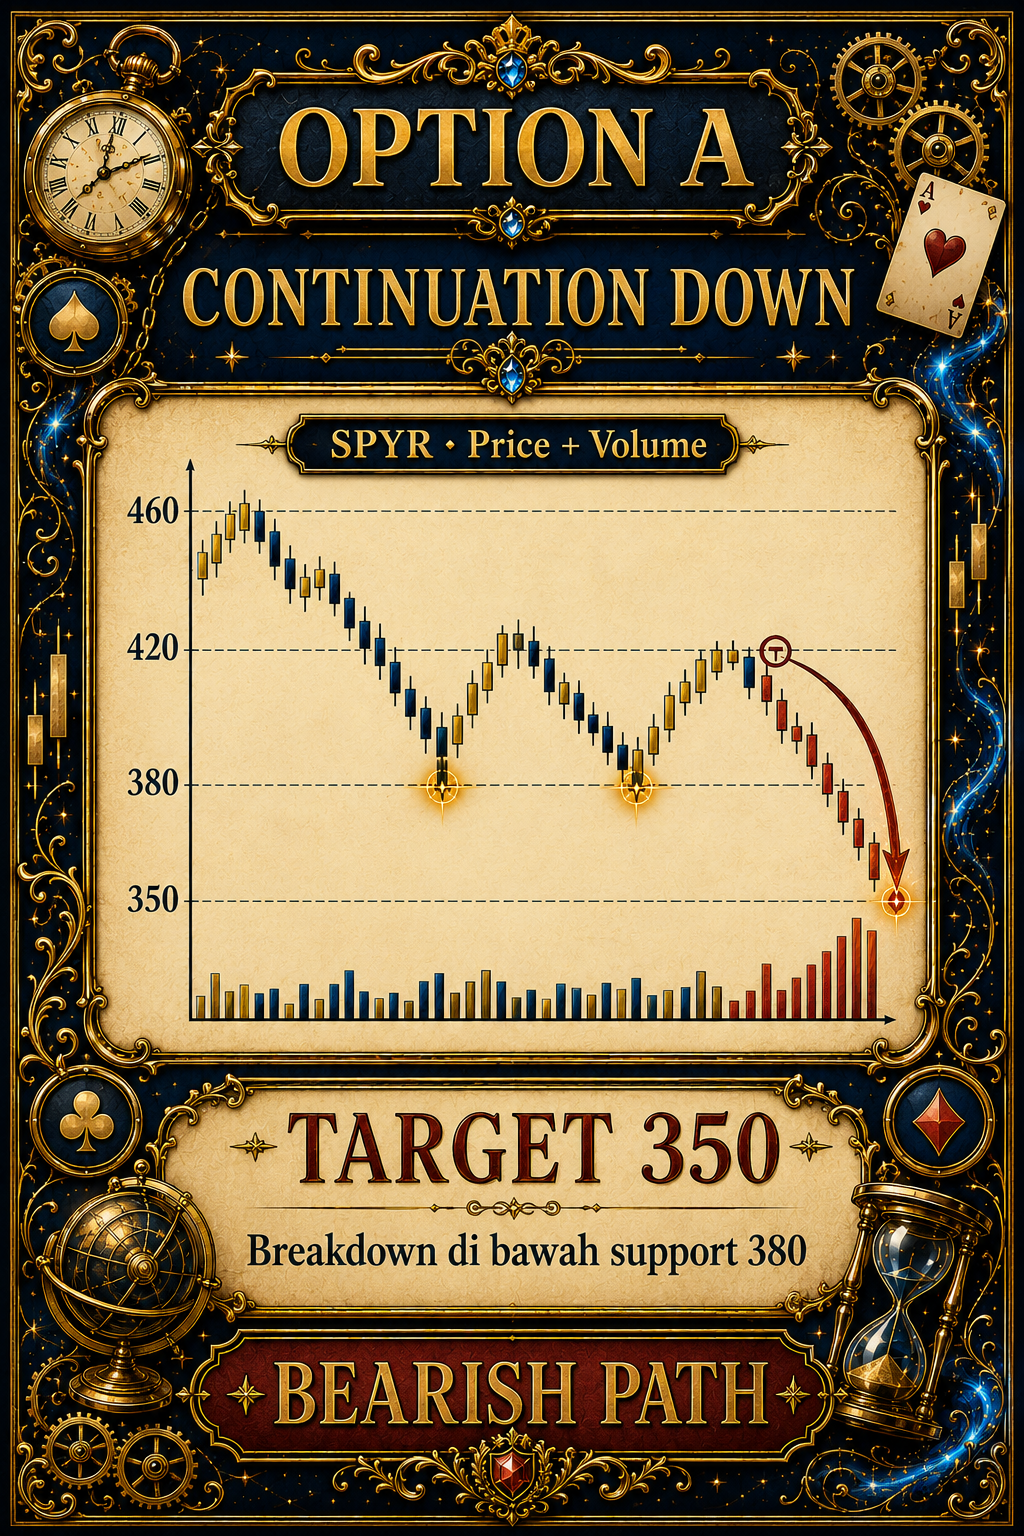
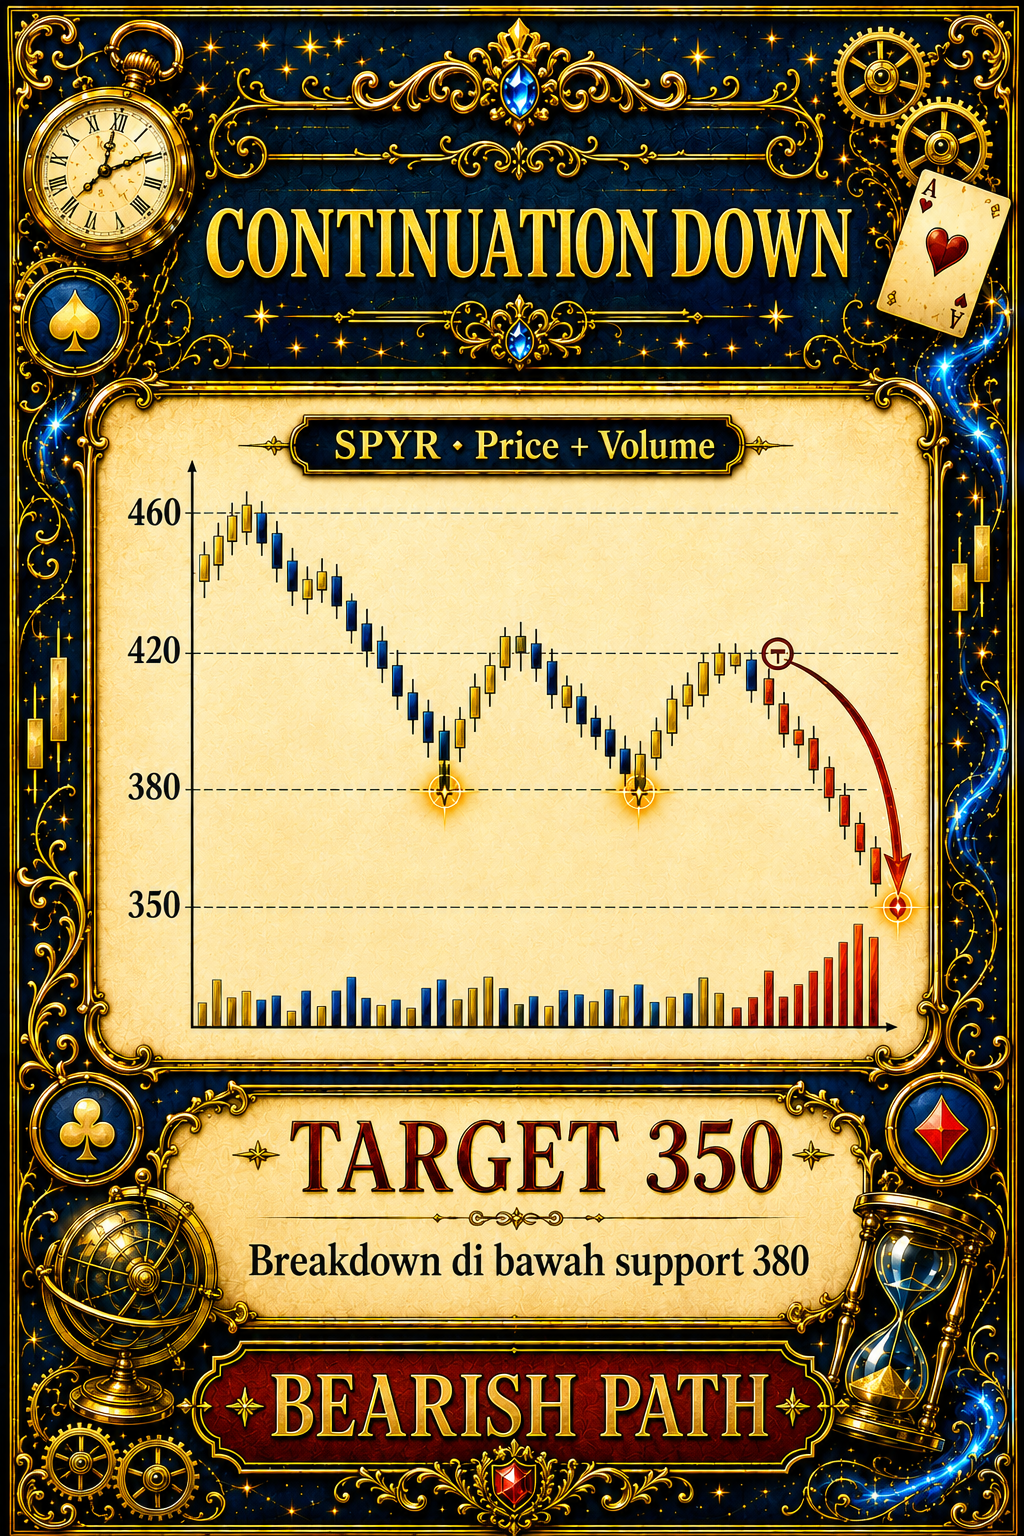
Revisi Prediction Card

diff --git a/js/config.js b/js/config.js
@@ -211,7 +211,7 @@ const WIZCO_BRIEFING = {
     { pose: "explain",        text: "Hari ini kalian tidak sekadar ikut bermain. Kalianlah yang akan membaca arah pasar dan menentukan ke mana harga bergerak." },
     { pose: "explain",        text: "Aturannya sederhana, dan dipakai di sembilan Round: baca skenario di layar, tulis jawaban di Prophecy Card, lalu pasang Poin Keyakinan kalian." },
     { pose: "present",        text: "Poin Keyakinan adalah ukuran seberapa percaya diri kalian dengan jawaban yang dipilih. Kalau jawaban benar, kalian mendapat tambahan Poin Keyakinan. Kalau salah, Poin Keyakinan yang dipasang akan hangus." },
-    { pose: "explain",        text: "Penting ya, Stockrangers: di setiap Round, memasang Poin Keyakinan itu WAJIB. Hanya di Round bonus terakhir nanti kalian boleh memilih untuk tidak ikut." },
+    { pose: "explain",        text: "Penting ya, Stockrangers: di setiap Round, memasang Poin Keyakinan itu WAJIB." },
     { pose: "thinking",       text: "Jumlah yang boleh dipasang ada batas minimal dan maksimal, selalu kelipatan 5, dan rentangnya akan muncul di layar setiap Round. Makin besar yang kalian pasang, makin besar tambahannya kalau benar, tapi makin besar pula yang hilang kalau salah." },
     { pose: "present",        text: "Dan satu hal lagi: setiap Round, multiplier-nya naik bertahap, dari kali 1.0 sampai kali 2.5. Jadi pertimbangkan baik-baik ya. Setiap keputusan yang kalian ambil sangat menentukan." },
     { pose: "cheer",          text: "Baik, cukup pengantarnya. Stockrangers, kita mulai!" }
@@ -268,7 +268,7 @@ const WIZCO_BRIEFING = {
     { pose: "present",        text: "Round 7: The Earnings Verdict. Musim laporan keuangan telah tiba." },
     { pose: "scroll",         text: "Enam emiten Lyndell merilis kinerja kuartalan. Tapi ingat, pertumbuhan yang tinggi belum tentu berarti perusahaannya sehat." },
     { pose: "magnifier",      text: "Tugas kalian: pilih TEPAT TIGA emiten dengan fundamental paling KUAT, bukan yang pertumbuhannya paling besar, melainkan yang paling sehat." },
-    { pose: "explain",        text: "Baca margin, utang, dan profitabilitasnya. Paket trio, pasang 30 sampai 150 Poin Keyakinan, kelipatan 5, wajib diisi. Multiplier kali 2.0, taruhannya makin tinggi." },
+    { pose: "explain",        text: "Baca margin, utang, dan profitabilitasnya. Paket trio, pasang 30 sampai 150 Poin Keyakinan, kelipatan 5, wajib diisi. Multiplier kali 2.0, poin keyakinan makin tinggi." },
     { pose: "thinking",       text: "Jangan tertipu angka yang terlihat menawan. Pertumbuhan tinggi tanpa laba dan tanpa margin yang sehat hanyalah jebakan." },
     { pose: "cheer",          text: "Angka tidak berbohong, baca laporannya. Mari mulai Round 7!" }
   ]},
